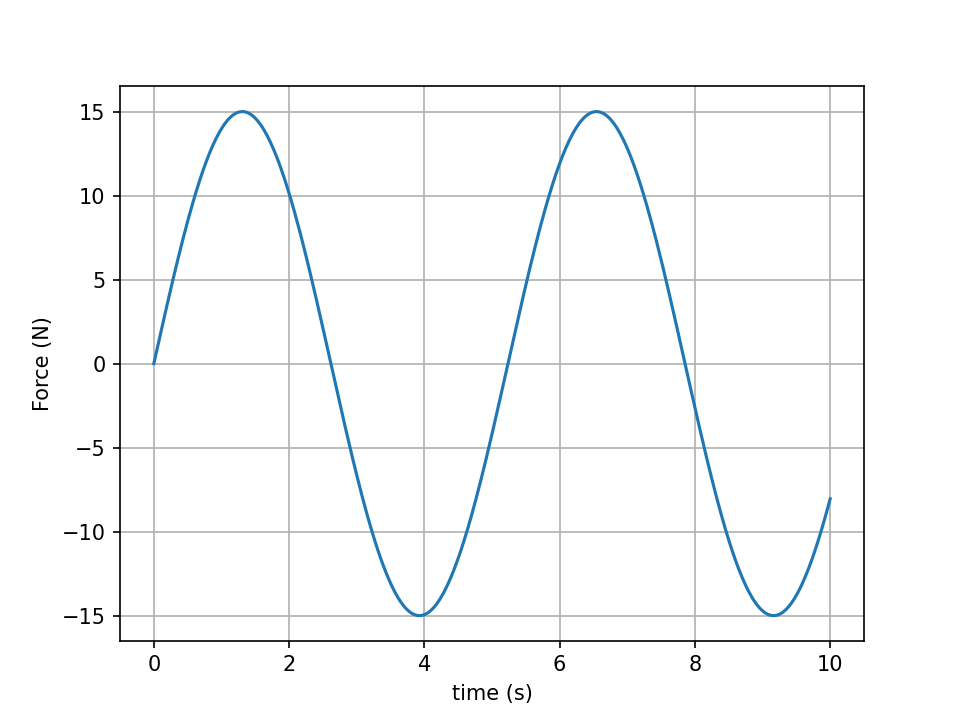
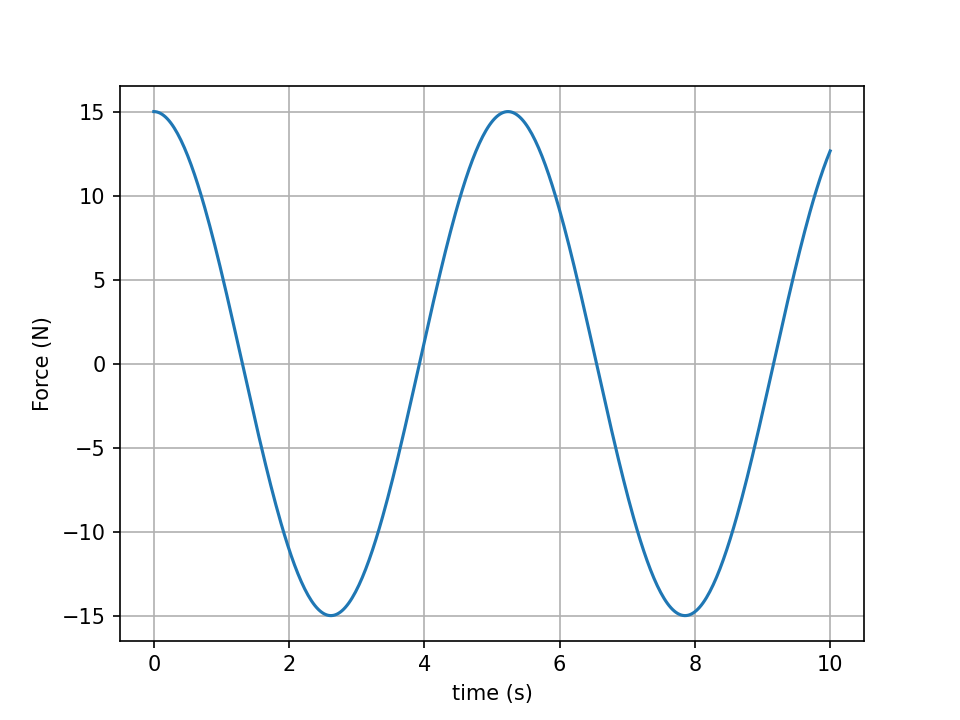
cart examples working

diff --git a/Modelling/cart_modelling/cart_simulation_analytical.py b/Modelling/cart_modelling/cart_simulation_analytical.py
@@ -1,0 +1,41 @@
+import numpy as np
+import matplotlib.pyplot as plt
+import os
+from cart_plotting import make_animation_with_force
+file_directory = os.path.dirname(os.path.abspath(__file__))
+
+#System parameters
+m = 10  # kg
+F = 1 #Newton
+
+#Simulation parameters
+t_step = 0.05 #seconds 
+t_final = 10.0 #seconds 
+t = np.arange(0.0,t_final,t_step)
+n = t.shape[0]
+
+#Initial conditions
+y0 = 0.0
+yd0 = 0.0
+
+#Analytical simulation solution
+x = (F/(2*m))*t**2 + yd0*t + y0
+
+# --- Plot results ---
+plt.figure()
+plt.plot(list(t), list(x))
+plt.xlabel("time (s)")
+plt.ylabel("x (m)")
+plt.legend()
+plt.grid(True)
+plt.savefig(str(file_directory)+"/response_plot.png", dpi=150)
+
+plt.figure()
+plt.plot([0.0,t_final], [F,F])
+plt.xlabel("time (s)")
+plt.ylabel("Force (N)")
+plt.grid(True)
+plt.savefig(str(file_directory)+"/force_plot.png", dpi=150)
+
+# --- Generate visualisation of the cart simulation! ---
+make_animation_with_force(x_sol=list(x), F_sol=[F]*n, t_vec=list(t), file_name=str(file_directory)+"/Cart_simulation.gif")

diff --git a/Modelling/cart_modelling/cart_plotting.py b/Modelling/cart_modelling/cart_plotting.py
@@ -112,11 +112,12 @@ def make_animation_with_force(x_sol, F_sol, t_vec, file_name):
                         color='black', linewidth=1)
 
         # Draw force arrow
-        arrow_len = F_anim[i] / 10.0
-        ax.add_patch(FancyArrow(x_anim[i, 0], 0.5*h_trol + 2*r_wheel,
-                                arrow_len, 0, width=0.05,
-                                head_width=0.15, head_length=0.15,
-                                color='red'))
+        if F_anim[i] >=0.001:
+            arrow_len = F_anim[i] / 10.0
+            ax.add_patch(FancyArrow(x_anim[i, 0], 0.5*h_trol + 2*r_wheel,
+                                    arrow_len, 0, width=0.05,
+                                    head_width=0.15, head_length=0.15,
+                                    color='red'))
 
         # Label the x-axis
         ax.set_xlabel("Position (m)")

diff --git a/Modelling/cart_modelling/cart_simulation_numerical.py b/Modelling/cart_modelling/cart_simulation_numerical.py
@@ -1,4 +1,5 @@
 import numpy as np
+from numpy import cos, sin
 from scipy.integrate import solve_ivp
 import matplotlib.pyplot as plt
 from cart_plotting import make_animation_with_force
@@ -14,7 +15,7 @@ B = np.array([[0],
 
 # Define control input
 def u(t,x):
-    force = 15*np.sin(1.2*t) #Newton
+    force = 15*cos(1.2*t)
     return np.array([force])
 
 # Dynamics function
@@ -23,7 +24,7 @@ def xdot(t, x):
     return dx.flatten()
 
 # Initial conditions & simulation parameters
-t_span = (0, 10)   # time range
+t_span = (0, 10)   # time range (0-> 10 seconds)
 x0 = np.array([0.0, 0.0])    # initial state: [x, xdot]
 
 # Solve the ODE
